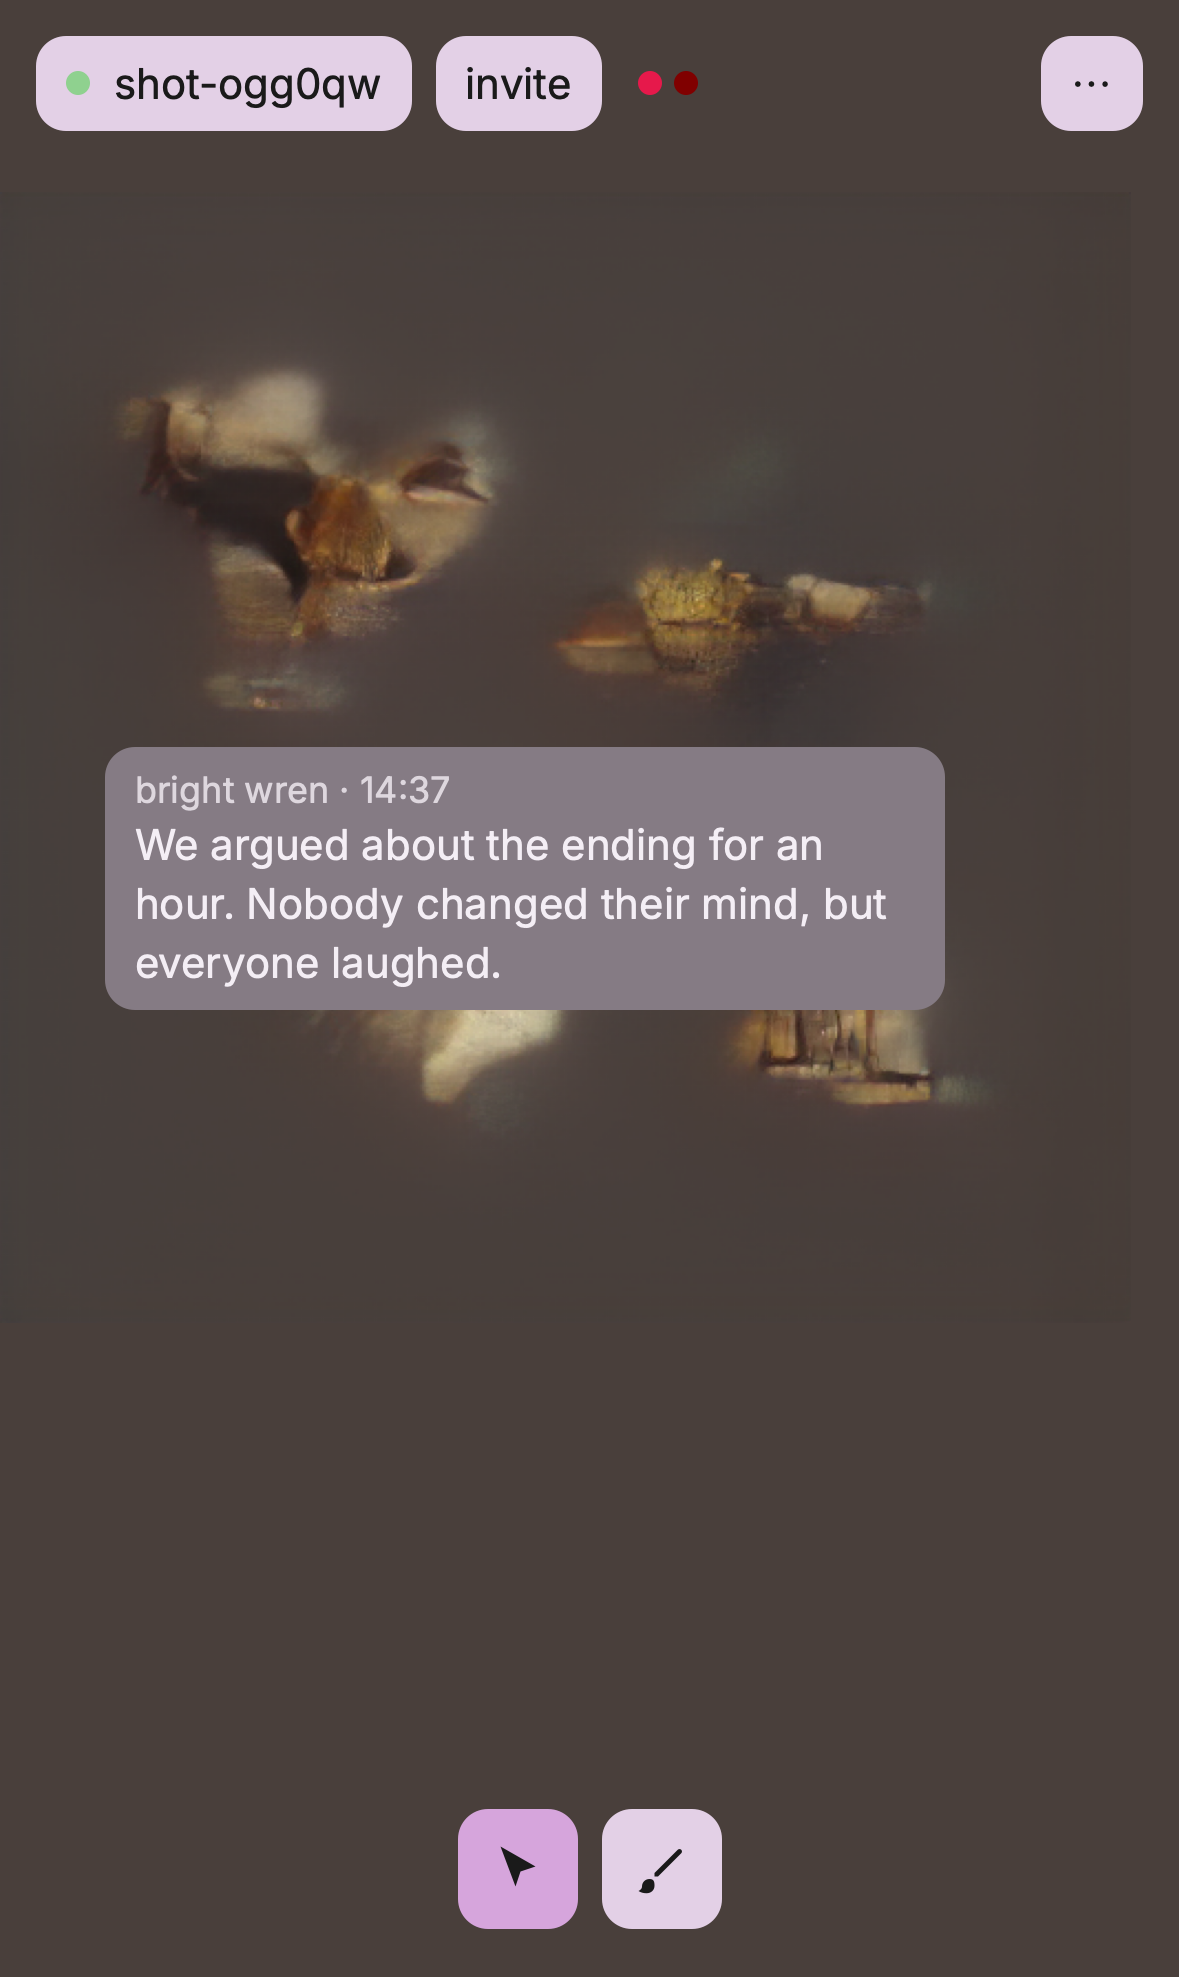
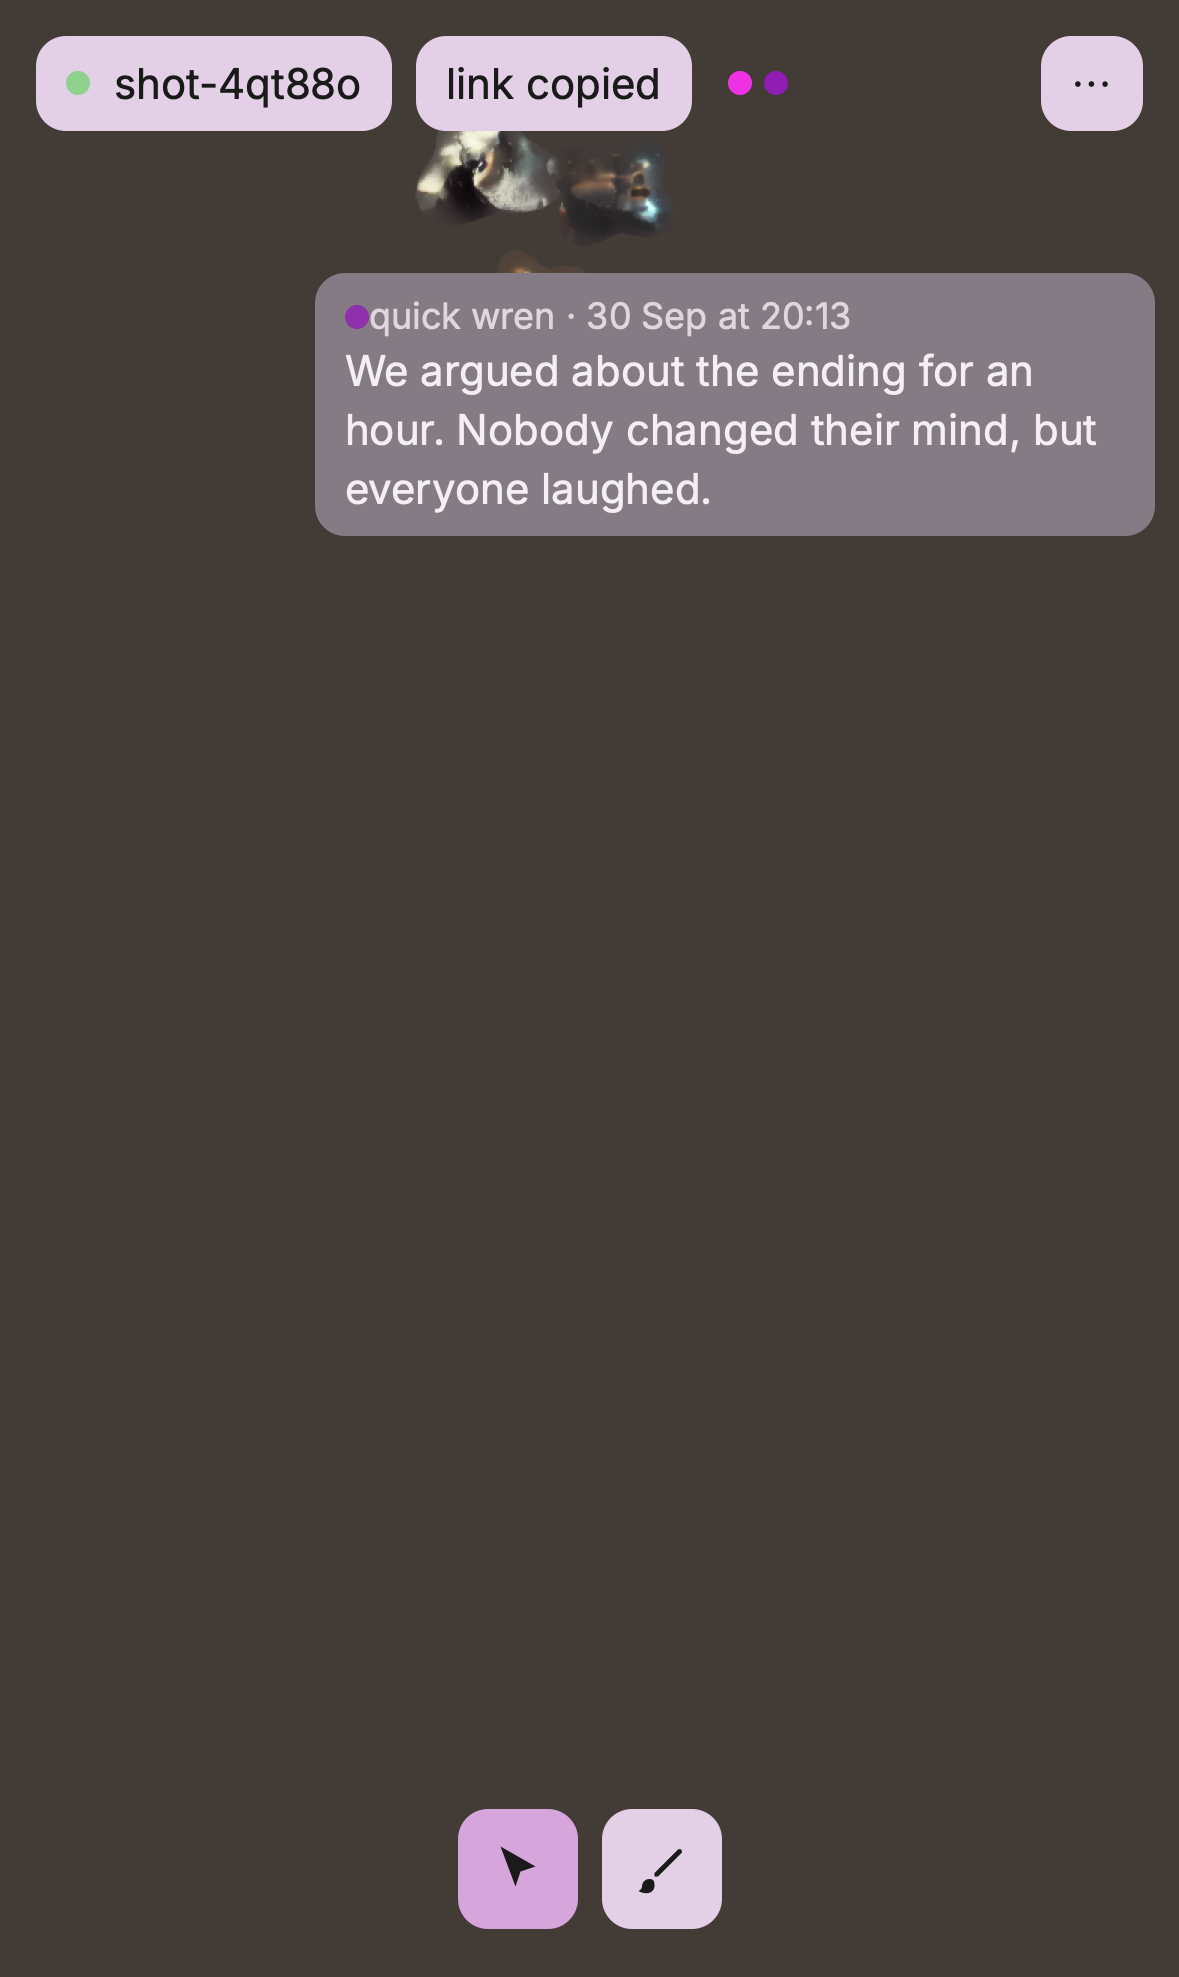
docs + screenshots for phase 4 (infinite canvas, hidden notes, slider, exports, replay, phone)

Changed region(s): [[0.0916, 0.0, 1.0, 0.5862]]

diff --git a/web/PROGRESS.md b/web/PROGRESS.md
@@ -1,40 +1,33 @@
 # Progress
 
-## Phase 3 (2026-09-30) — new UI to Nazar's design
-- Design text: `web/design/DESIGN.md`. Tokens: `app/tokens.css`. Components: roombar, tools, menu, notes, canvas, loading, toast.
-- Brush = lasso (any free shape), white while drawing; note box appears next to the closed shape; Enter paints; the box turns muted and stays attached. Cursor tool: hover (desktop) / tap (phone) opens the full note.
-- Progress shows as the white shape fading out. Export PNG + notes, undo, clear and effort in the ⋯ menu. Home page and no-WebGPU message in the same style.
-- Engine: free-form masks; blending only where shapes touch painted cells.
-- Screenshots: `app/shots/ui_desktop.png`, `ui_desktop_drawing.png`, `ui_desktop_notebox.png`, `ui_phone.png`, `ui_phone_note.png`, `ui_home.png`, `ui_home_phone.png`.
+## Phase 4 (2026-09-30) — infinite canvas, layers, phones on their own
+0. **Tokens / your items**: Kaggle token stored (`~/.kaggle/access_token`). Kaggle run blocked by the account (no kernel internet, dataset creation 403) → needs phone verification (NEEDS_NAZAR). Hugging Face: waiting for `~/.config/vqpaint/hf_token`. PR #1 merge: pending the final checks.
+1. **Seamless canvas**: 256×256-token world (4096 px), blank = page background colour exactly, pan/zoom/pinch per device, joiners fitted to the painting, only visible layers decoded and cached. Rooms store the grid in chunks and send it run-length encoded.
+2. **Notes hidden**: nothing on the canvas; click/tap a shape opens its note (author, time small); click elsewhere closes.
+3. **Clear canvas removed**; backend caps 2048 cells per message and 40 messages / 10 s per socket.
+4. **Export** (⋯ menu): PNG cropped to the painting; PDF = painting page + one entry per note (crop + text, author, time). `lib/export.js`, test `tools/test_export.mjs` (13/13).
+5. **Smooth edges**: each stroke is a layer (its own crop tokens + lasso path) composited with a feathered polygon alpha → edges follow the lasso, no token steps, no borders between shapes (`app/shots/ui_desktop_edge_closeup.png`).
+6. **Replay** in the ⋯ menu (notes appear one by one) and **export replay video** (WebM in Chrome, MP4 in Safari untested).
+7. **Phones paint themselves**: packed int8 models (decoder 45 MB, CLIP 53 MB), decoder first, CLIP on first stroke; lasso capped at 14 tokens, 1.3× longer search; wake lock while painting; painter pauses in hidden tabs; CPU fallback with the int8 decoder finishes strokes; helpers off by default (⋯ menu). Realism slider (abstract ↔ realistic) in the note box replaces effort.
 
-## Done (phase 2, 2026-09-30) — "notes become a painting"
-1. **Strokes ≠ pasted photos**: irregular masks, mosaic seeds from 4 bank grids in 4×4 patches, edges grown from the canvas, changed-cell crossfade. Before/after: `app/shots/before_after.png`. The painterly look needs the painting bank: notebook ready in `export/paintings/` (NEEDS_NAZAR item 0).
-2. **Long text**: sentence chunks ≤ 75 CLIP tokens, blended target; the status line shows the chunk count and any mid-sentence splits.
-3. **Notes**: every stroke stores text, author, colour, time and mask in the room (Durable Object SQLite). Hover shows it on desktop, tap on touch. Export = PNG + `notes.json`.
-4. **No hard borders**: noisy blob masks, seam crossfade (alpha 1 on changed cells, 0.5→0 over 16 px). A faint ghost of the mask remains on blank canvas.
-5. **Phone**: touch drag paints, tap reads; scrolling layout with the note box first. Lite loading: 89 MB to view (decoder only), +115 MB on first paint. No-WebGPU devices load an int8 decoder (57 MB) and ask the room for a helper; helpers claim, paint with the requester's name, and everyone sees "X is painting … for Y".
-6. **Figma-ready**: `app/tokens.css` holds every colour/font/space/radius/shadow; UI is five DOM components in `app/components/` (topbar, panel, loading, note, canvas).
-
-## Phase 1 (2026-09-29) — still true
-- Live site https://nazargol.github.io/VQPAINT/, rooms on Cloudflare, decoder 237 ms / 256 px Chromium, 409 ms Safari.
-
-## Tests (all pass)
-- `app/test_app.mjs`: two desktop browsers + late joiner + lite joiner + a no-WebGPU peer helped by a desktop.
-- `app/test_phone.mjs --device "iPhone 15" | "Pixel 7"`: emulated phones with a desktop helper.
-- `rooms/npm test`: protocol test against the deployed worker.
-
-## Key numbers
-| what | Chromium (M1 Pro) | Safari 26.6 | iPhone 15 (emulated) | Pixel 7 (emulated) |
+## Numbers (Playwright emulation on the M1 Pro — proves the flow and sizes, not real phone speed)
+| | Chromium desktop | iPhone 15 (WebKit) | Pixel 7 (Chromium) | iPhone, no WebGPU (CPU) |
 |---|---|---|---|---|
-| first download to view | 204 MB (all) | 204 MB | 89 MB | 89 MB |
-| extra download on first paint | – | – | +115 MB | +115 MB |
-| ready to view (local files) | 3.8 s | ~4 s | 2.8 s | 2.1 s |
-| stroke, 6×6 brush, 10 s effort | 10.1 s, 6.5 tries/s | 10.1 s, 4.2 tries/s | 10.7 s, 3.8 tries/s | 10.8 s, 7.4 tries/s |
-| int8 decoder on CPU (no WebGPU), 256 px | 383 ms (Python ORT) vs 1094 ms fp32 | – | – | – |
-| room set round-trip | 43 ms median | | | |
+| download to view | 49 MB (decoder pack + palette) | 49 MB | 49 MB | 61 MB (int8 QDQ decoder) |
+| extra to paint (first stroke) | +59 MB (CLIP pack + bank) | +59 MB | +59 MB | +59 MB |
+| ready to view (local files) | 2–4 s | 1.6 s | 2.8 s | 8.2 s |
+| first stroke incl. CLIP load, 6 s search | 6 s | 18.9 s | 19.2 s | 26.6 s |
+| 16×16-token decode | 220 ms | 420 ms | 232 ms | 6.6 s |
+| e2e tests | all pass | all pass | all pass | pass |
 
-Phone numbers come from Playwright device emulation on the Mac's GPU: they prove the touch flow and the download sizes, not real phone speed. Real devices still to test: WebGPU on iOS 26 Safari, memory for the 512 px full decode, and download over cellular.
+Full painting pack = 108 MB (was 204 MB). Realism 0.6 default = 14 s search on desktop, 18 s on phones.
 
-## Open
-- Painting bank (Kaggle run) — NEEDS_NAZAR item 0.
-- Hugging Face hosting — NEEDS_NAZAR item 1.
+## Real phone test list (what emulation cannot tell)
+1. Open the live link on the phone, create a room: does the decoder load (45 MB) and does the page show the dark canvas within ~30 s on Wi-Fi?
+2. Draw a lasso with one finger (brush tool), type a note, press Enter: does a stroke appear within ~40 s? Does the phone stay awake?
+3. Cursor tool: one-finger pan, pinch zoom, tap a shape → note opens, tap elsewhere → closes.
+4. Switch apps mid-stroke and come back: the stroke should continue and finish.
+5. Join from the phone a room painted on the laptop: it should open looking at the painting.
+6. Safari on iPhone: ⋯ → export replay video (the MP4 path is untested).
+
+## Earlier phases: see git history and DECISIONS.md.

diff --git a/web/README.md b/web/README.md
@@ -115,7 +115,13 @@ git clone --depth 1 https://github.com/CompVis/taming-transformers.git web/expor
 
 ## UI
 
-The design is the text in `design/DESIGN.md`. Whole screen is the canvas; the brush is a lasso; a note box appears next to the closed shape; Enter paints it; the cursor tool reads notes on hover or tap. Tokens in `app/tokens.css`, components in `app/components/` (roombar, tools, menu, notes, canvas, loading, toast).
+The design is the text in `design/DESIGN.md`. The whole screen is a window onto a large canvas (pan with the cursor tool, wheel/pinch to zoom); the brush is a lasso; a note box with an abstract↔realistic slider appears next to the closed shape; Enter paints it. Notes are hidden until you click or tap a shape. The ⋯ menu has undo, export PNG, export PDF (painting + one entry per note), replay and replay video. Tokens in `app/tokens.css`, components in `app/components/`.
+
+### How a stroke is stored
+Each note carries its crop tokens, its lasso path and the realism value. Browsers decode the crop once, apply a feathered polygon alpha and cache the bitmap (`lib/layers.js`); the canvas is the composition of these layers in time order, so edges follow the lasso and replay/export come from the same data. The shared token grid (256×256, run-length synced) is the search context for new strokes.
+
+### Models
+Weight-only int8 packs rebuilt to fp16 in the browser (`lib/pack.js`, `export/pack_weights.py`): decoder 45 MB, CLIP vision 12 MB, CLIP text 41 MB. Phones load the decoder first and the CLIP pack on the first stroke. Devices without WebGPU use the int8 QDQ decoder on the CPU.
 
 ## Layout
 
